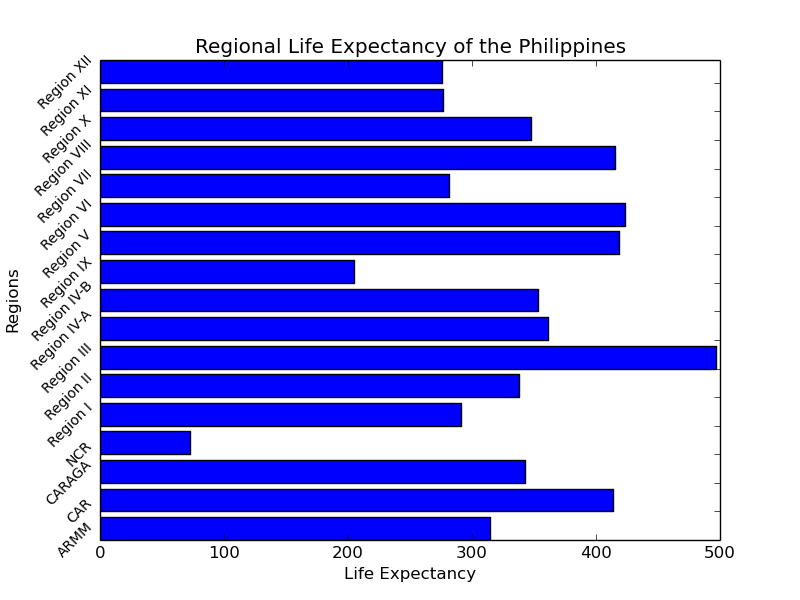
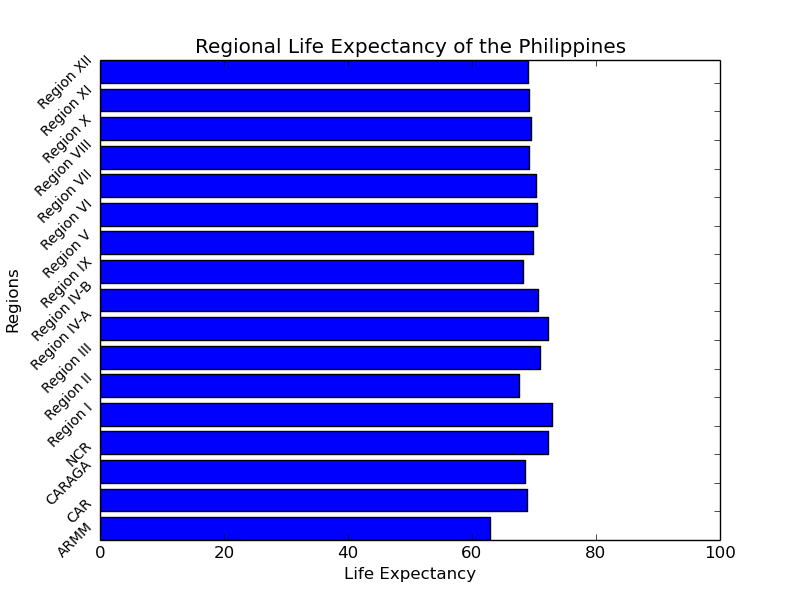
Sorted by age

diff --git a/scripts/lab2_age.py b/scripts/lab2_age.py
@@ -28,14 +28,15 @@ def ageCounter(region_val):
     reg_index = where(region==region_val)
     for i in range(0,len(reg_index[0])):
         sum = sum + lifeExpectancy[reg_index[0][i]]
-    return sum
+    avg = sum/len(reg_index[0])
+    return avg
 
 # Set x and y labels and values for barplot
 # and then graph values and save in fig folder
 def graph(sort_dict):
     plt.yticks(range(len(sort_dict)), sort_dict.keys(), rotation=45, size='small')
     plt.barh(range(len(sort_dict)), sort_dict.values())
-    plt.xlim((0,500))
+    plt.xlim((0,100))
     plt.xlabel("Life Expectancy")
     plt.ylabel("Regions")
     plt.title("Regional Life Expectancy of the Philippines")
